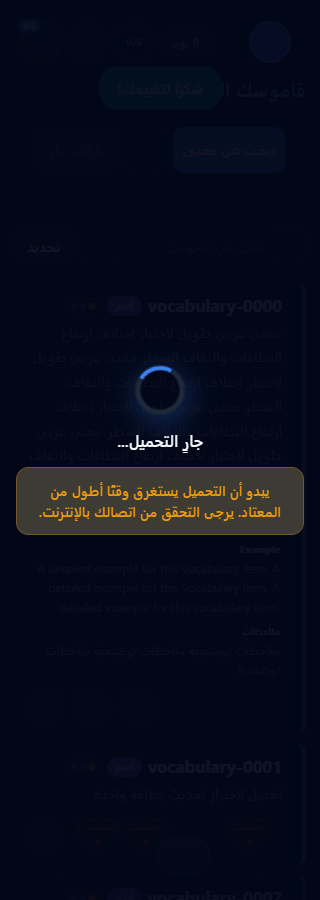
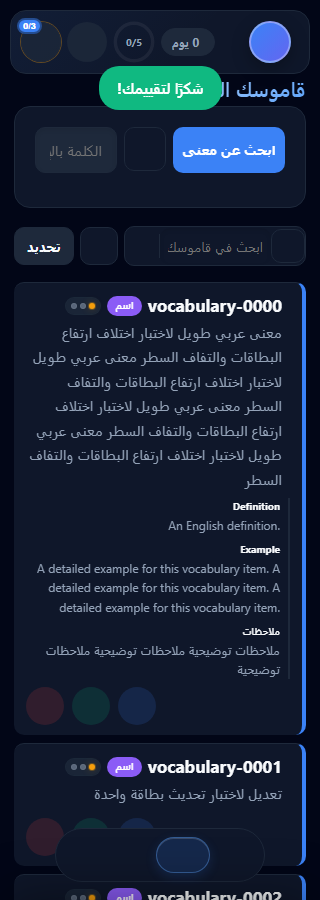
fix: release card observers when dictionary view is rebuilt

diff --git a/js/dictionary-render.js b/js/dictionary-render.js
@@ -298,6 +298,7 @@ function renderDictionaryWindow(options = {}) {
   const searchType = document.getElementById('searchFilter')?.value || 'all';
   const snapshot = getDictionaryListSnapshot(query, searchType);
   const listWasCleared = !list.querySelector('.word-card, .virtual-list-spacer');
+  if (listWasCleared) dictionaryResizeObserver?.disconnect();
   list.classList.add('dictionary-windowed');
   const width = list.getBoundingClientRect().width;
   if (dictionaryRenderWidth && Math.abs(width - dictionaryRenderWidth) > 1) {

diff --git a/index.html b/index.html
@@ -1192,7 +1192,7 @@
 <script src="js/gate-runner.js?v=20261007-2"></script>
 <script src="js/worlds.js?v=20261105-render-1"></script>
 <script src="js/dictionary-window.js?v=20261105-render-1"></script>
-<script src="js/dictionary-render.js?v=20261105-render-1"></script>
+<script src="js/dictionary-render.js?v=20261105-render-2"></script>
 <script src="js/srs.js?v=20261105-render-1"></script>
 <script src="js/popover-overrides.js?v=20260817-1"></script>
 <script src="js/quiz.js?v=20261105-render-1"></script>

diff --git a/reports/dictionary-render-evidence/README.md b/reports/dictionary-render-evidence/README.md
@@ -12,7 +12,7 @@ The dictionary uses measured variable card heights, keyed DOM reuse and a bounde
 
 | Measurement | Before | After |
 | --- | ---: | ---: |
-| Initial dictionary render, one recorded sample | 272.8 ms | 29.9 ms |
+| Initial dictionary render, one recorded sample | 272.8 ms | 50.0 ms |
 | JSON parses during initial render | 104 | 1 |
 | Initial card nodes | 48 | 22 |
 | Scroll snapshots with visible cards | 18/27 | 27/27 |
